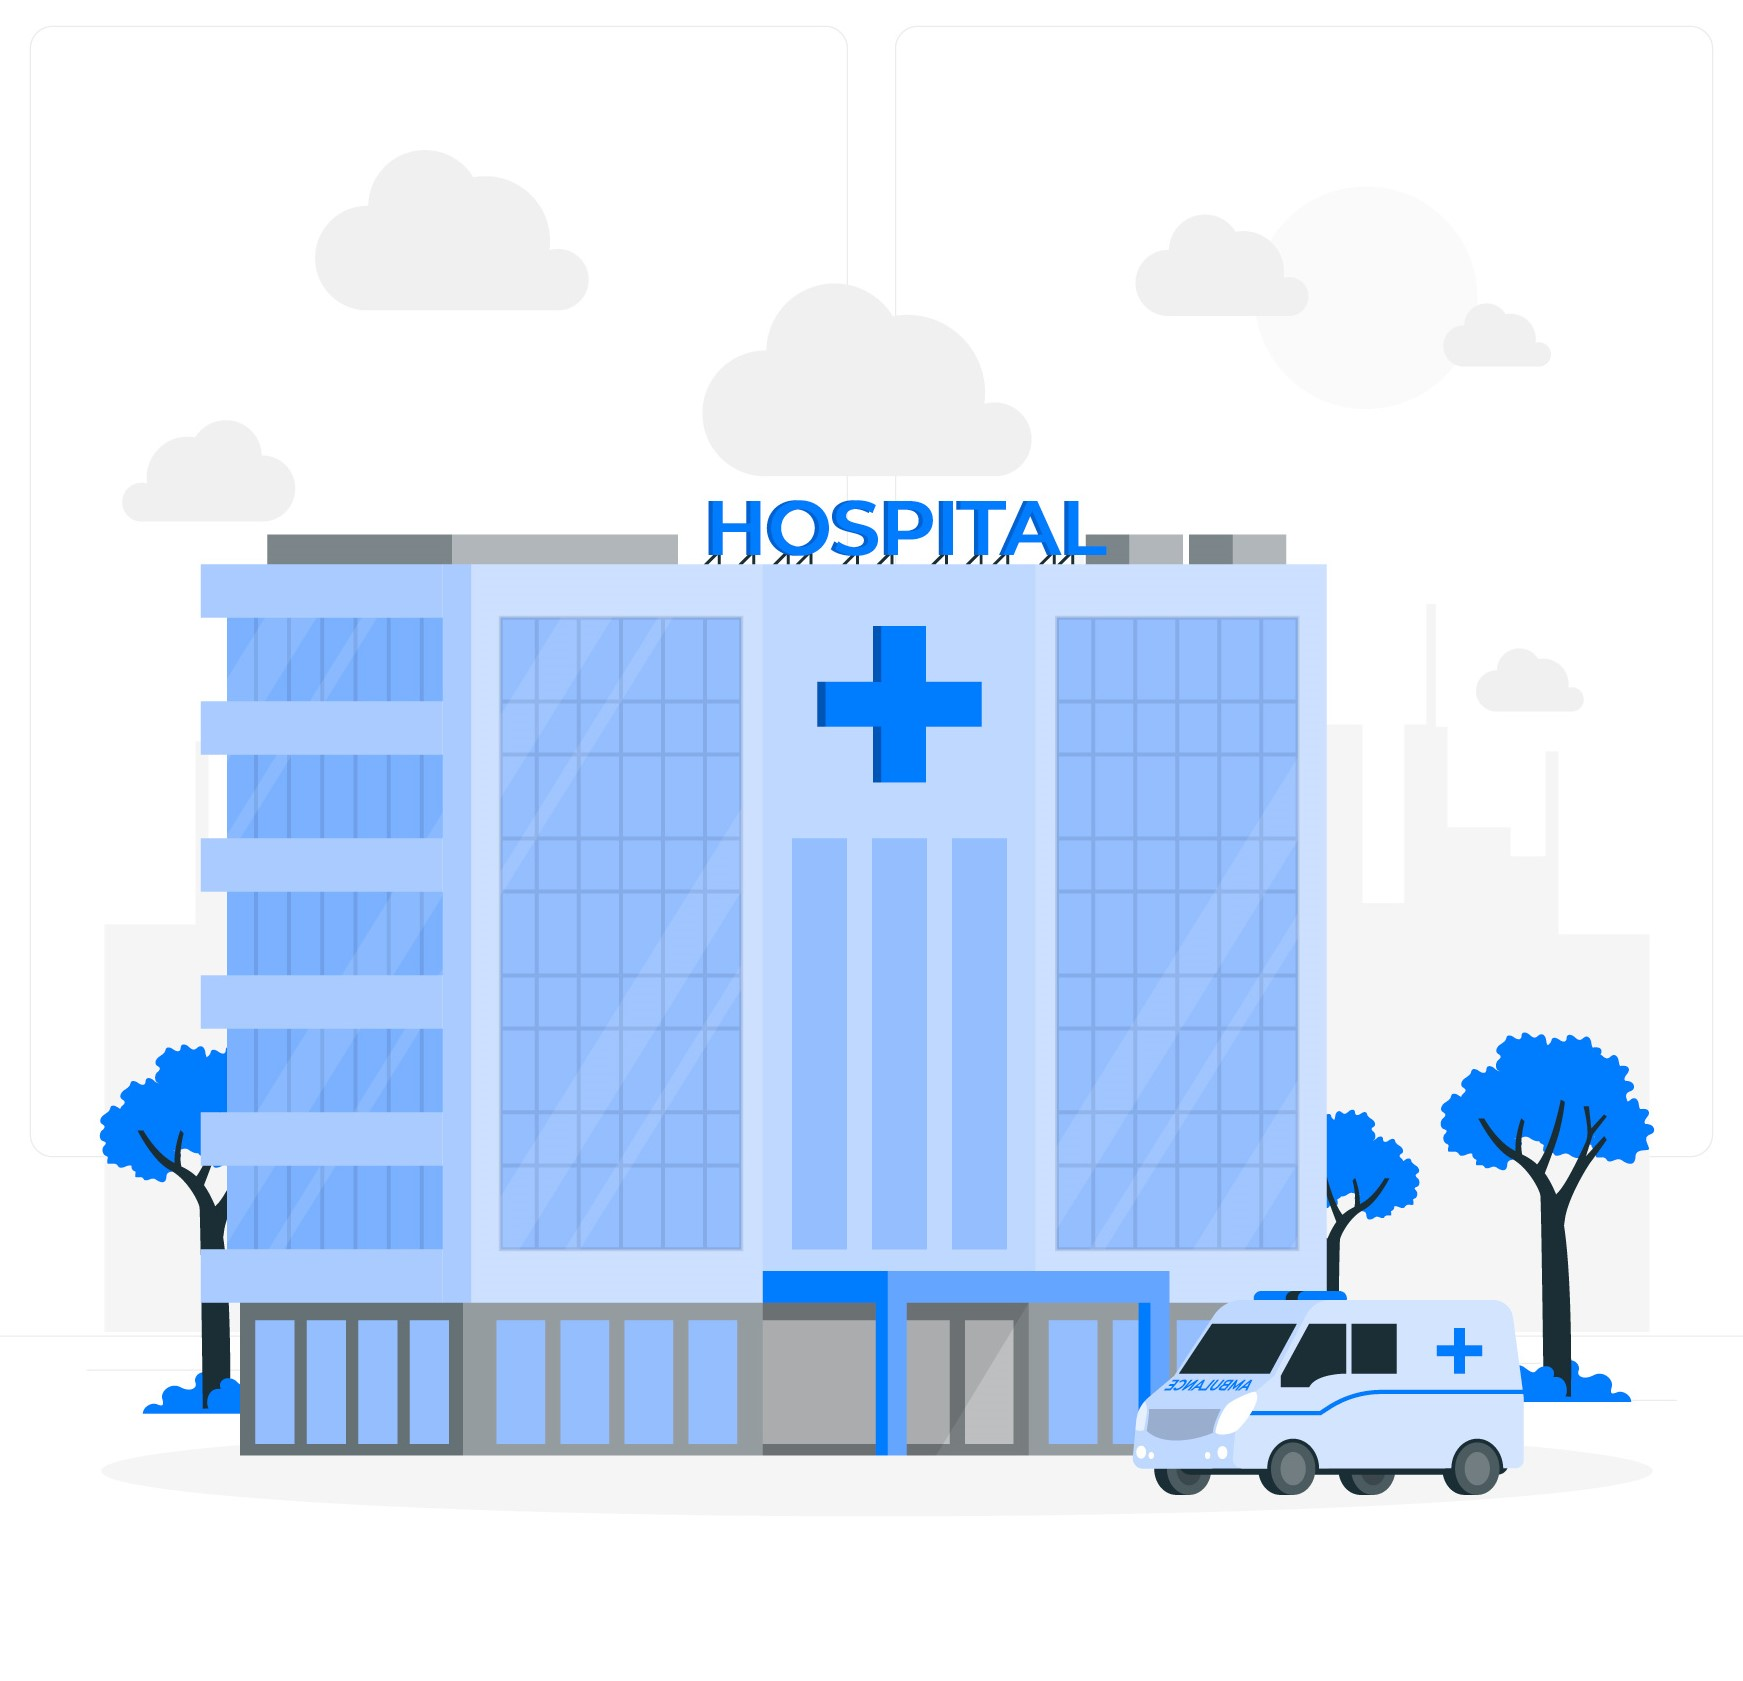
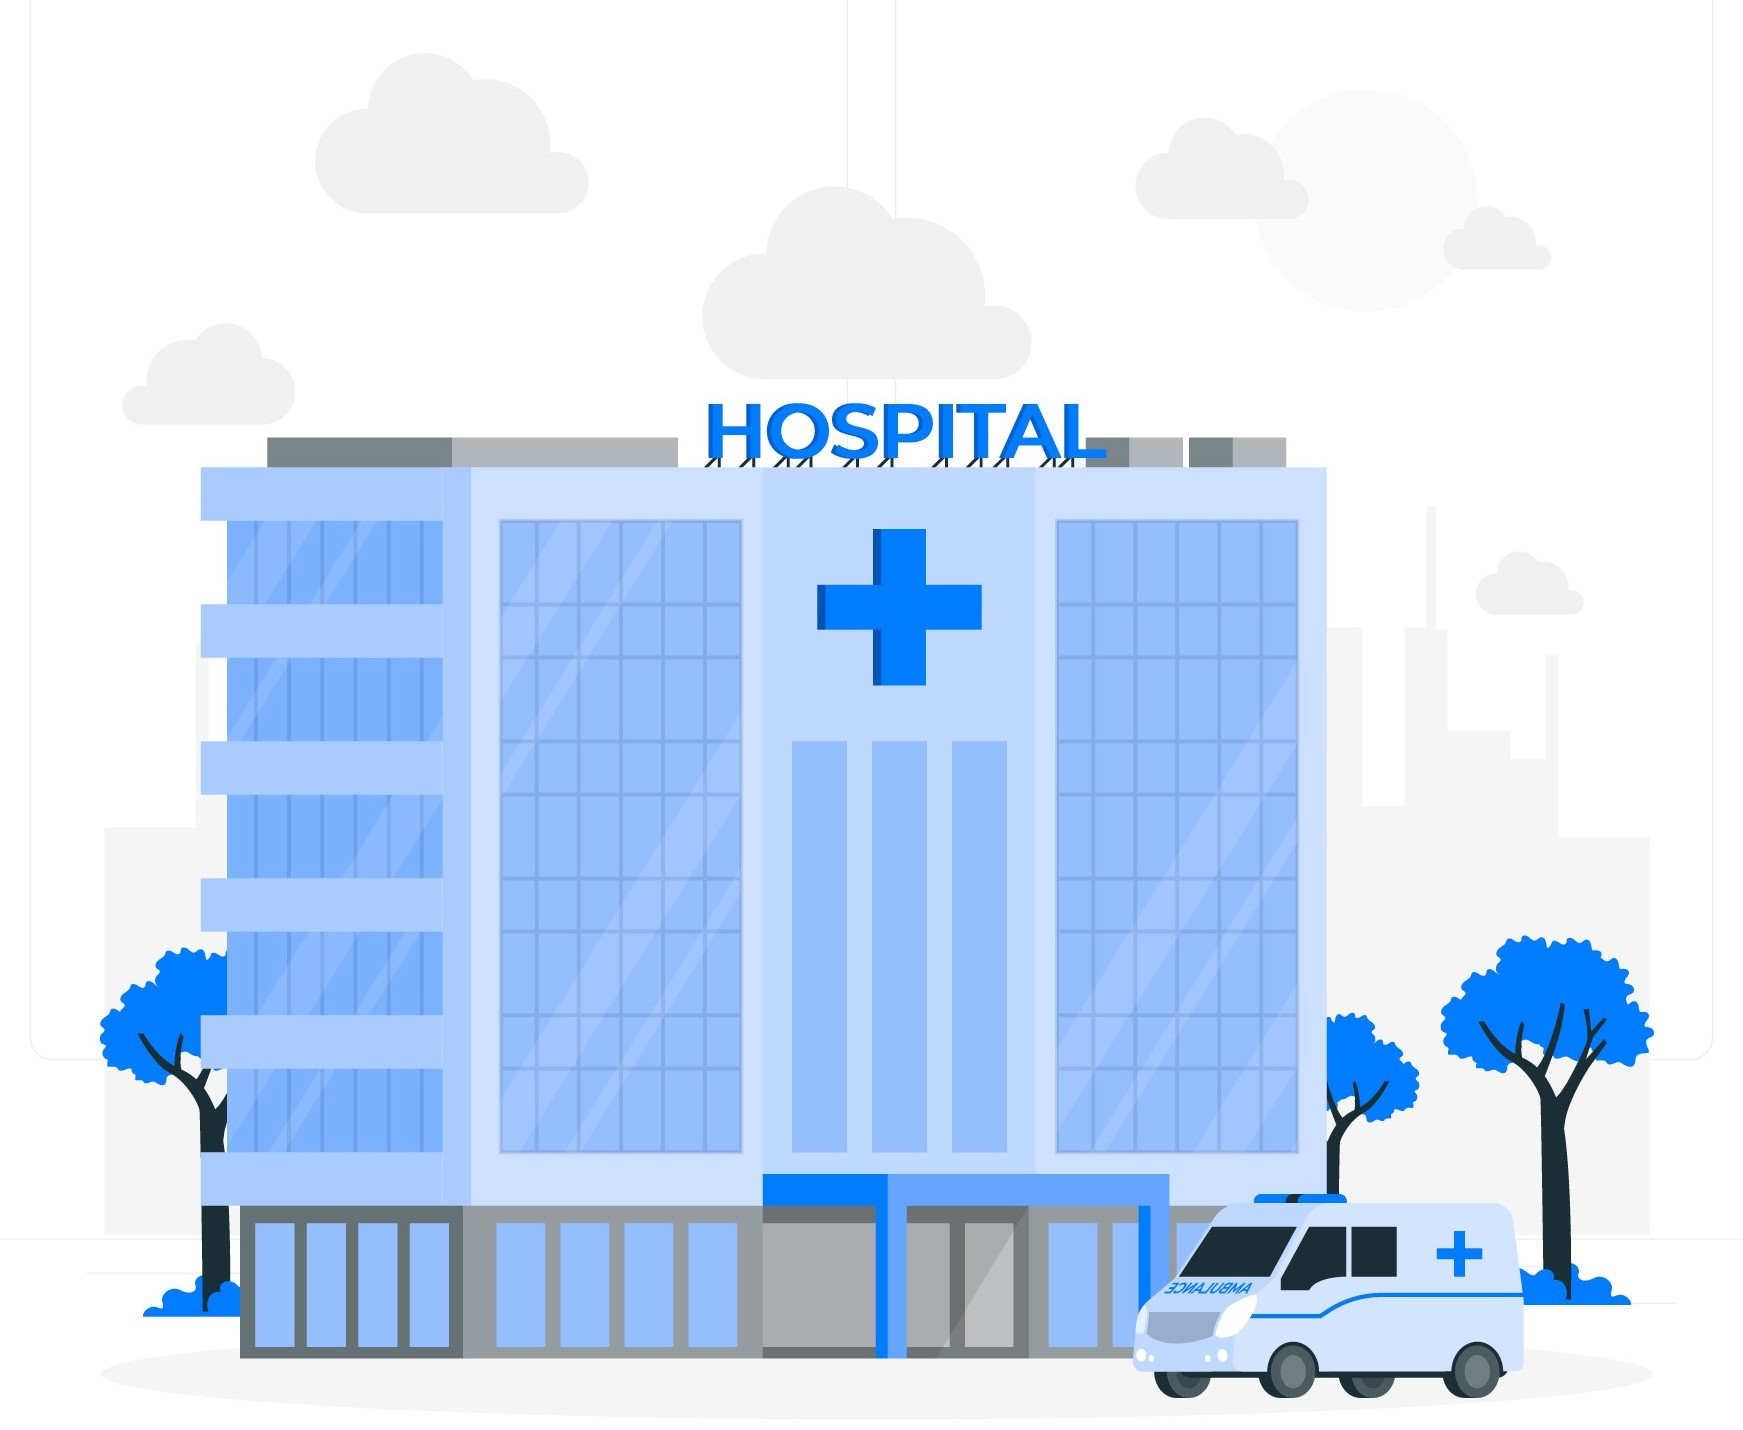
minor changes to landing

diff --git a/src/components/specific/landingPage/welcome/style.css b/src/components/specific/landingPage/welcome/style.css
@@ -3,7 +3,7 @@
 }
 .landing-page-welcome-left-section {
   margin-left: 10%;
-  padding-top: 4%;
+  margin-top: 8%;
 }
 .landing-page-welcome-left-section-welcome-text h1:first-child {
   font-family: "Rubik", sans-serif;
@@ -19,6 +19,7 @@
   font-style: normal;
   margin-top: 0.5%;
   font-size: 3.5rem;
+  margin-bottom: 5%;
 }
 .landing-page-welcome-left-section-description {
   font-family: "Rubik", sans-serif;

diff --git a/src/components/specific/landingPage/welcome/Welcome.jsx b/src/components/specific/landingPage/welcome/Welcome.jsx
@@ -1,6 +1,6 @@
 import React from "react";
 import "./style.css";
-import Hospital from "../../../../assets/images/6634380.jpg";
+import Hospital from "../../../../assets/images/6634380.png";
 
 export default function Welcome() {
   return (
